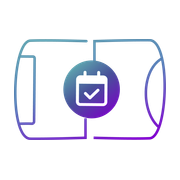
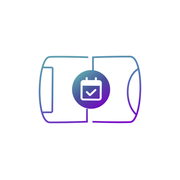
fix(manager): login mobile e preview da marca no link
Evita cortar o botão Google sob a tarja de teste e regenera logo/ícones/OG com margem segura.

Changed region(s): [[0.0556, 0.1944, 0.9444, 0.7778]]

diff --git a/vite.config.ts b/vite.config.ts
@@ -35,7 +35,13 @@ export default defineConfig({
     VitePWA({
       registerType: 'autoUpdate',
       injectRegister: 'auto',
-      includeAssets: ['logo-mpn.png', 'robots.txt', 'apple-touch-icon.png'],
+      includeAssets: [
+        'logo-mpn.png',
+        'og-image.png',
+        'robots.txt',
+        'apple-touch-icon.png',
+        'favicon-maskable-512x512.png',
+      ],
       workbox: {
         // SPA online: `serve -s` já devolve index.html.
         // NavigationRoute + precache vazio/desatualizado = ERR_FAILED no refresh (Chrome Android).
@@ -57,17 +63,19 @@ export default defineConfig({
               src: 'favicon-192x192.png',
               sizes: '192x192',
               type: 'image/png',
+              purpose: 'any',
             },
             {
               src: 'favicon-512x512.png',
               sizes: '512x512',
               type: 'image/png',
+              purpose: 'any',
             },
             {
-              src: 'favicon-512x512.png',
+              src: 'favicon-maskable-512x512.png',
               sizes: '512x512',
               type: 'image/png',
-              purpose: 'any maskable',
+              purpose: 'maskable',
             },
           ]
           : [
@@ -75,17 +83,19 @@ export default defineConfig({
               src: 'favicon-test-192x192.png',
               sizes: '192x192',
               type: 'image/png',
+              purpose: 'any',
             },
             {
               src: 'favicon-test-512x512.png',
               sizes: '512x512',
               type: 'image/png',
+              purpose: 'any',
             },
             {
-              src: 'favicon-test-512x512.png',
+              src: 'favicon-maskable-512x512.png',
               sizes: '512x512',
               type: 'image/png',
-              purpose: 'any maskable',
+              purpose: 'maskable',
             },
           ],
       },

diff --git a/index.html b/index.html
@@ -31,6 +31,27 @@
       content="black-translucent"
     />
     <meta name="robots" content="noindex, nofollow" />
+    <!-- Preview ao compartilhar o link (WhatsApp etc.): imagem com margem segura -->
+    <meta property="og:type" content="website" />
+    <meta property="og:site_name" content="Marca Pra Nós" />
+    <meta
+      property="og:title"
+      content="Painel Administrativo | Marca pra nós"
+    />
+    <meta
+      property="og:description"
+      content="Gerenciamento de reservas de horários em quadras esportivas"
+    />
+    <meta property="og:image" content="/og-image.png" />
+    <meta property="og:image:width" content="1200" />
+    <meta property="og:image:height" content="630" />
+    <meta property="og:locale" content="pt_BR" />
+    <meta name="twitter:card" content="summary_large_image" />
+    <meta
+      name="twitter:title"
+      content="Painel Administrativo | Marca pra nós"
+    />
+    <meta name="twitter:image" content="/og-image.png" />
     <meta
       http-equiv="Content-Security-Policy"
       content="default-src 'self'; base-uri 'self'; object-src 'none'; form-action 'self'; script-src 'self' 'unsafe-inline' https://www.googletagmanager.com https://www.google-analytics.com https://www.clarity.ms https://scripts.clarity.ms https://accounts.google.com; style-src 'self' 'unsafe-inline' https://accounts.google.com; img-src 'self' data: blob: https:; font-src 'self' data:; frame-src https://accounts.google.com; connect-src 'self' https://*.marcapranos.com.br https://*.up.railway.app https://www.google-analytics.com https://analytics.google.com https://*.clarity.ms https://www.clarity.ms https://viacep.com.br https://accounts.google.com http://localhost:* http://127.0.0.1:* ws: wss:; worker-src 'self' blob:; media-src 'self' blob:"

diff --git a/src/pages/SignUp/VerifyCode/index.tsx b/src/pages/SignUp/VerifyCode/index.tsx
@@ -159,10 +159,10 @@ function SignUpVerifyCode() {
 
   if (!email) {
     return (
-      <div className="relative flex min-h-full flex-col items-center justify-center bg-master px-4 py-4 text-text-light sm:py-8">
+      <div className="relative flex min-h-full flex-col items-center bg-master px-4 py-4 text-text-light sm:py-8">
         <div className="pointer-events-none absolute inset-0 bg-[radial-gradient(ellipse_at_top,_rgba(37,84,160,0.18),_transparent_55%)]" />
 
-        <div className="relative z-10 w-full max-w-md">
+        <div className="relative z-10 my-auto w-full max-w-md">
           <div className="mb-4 flex flex-col items-center text-center sm:mb-6">
             <div className="mb-3 flex w-32 items-center justify-center overflow-hidden rounded-xl bg-white p-1.5 sm:mb-4 sm:w-40 sm:rounded-2xl sm:p-2">
               <img
@@ -230,10 +230,10 @@ function SignUpVerifyCode() {
   }
 
   return (
-    <div className="relative flex min-h-full flex-col items-center justify-center bg-master px-4 py-4 text-text-light sm:py-8">
+    <div className="relative flex min-h-full flex-col items-center bg-master px-4 py-4 text-text-light sm:py-8">
       <div className="pointer-events-none absolute inset-0 bg-[radial-gradient(ellipse_at_top,_rgba(37,84,160,0.18),_transparent_55%)]" />
 
-      <div className="relative z-10 w-full max-w-md">
+      <div className="relative z-10 my-auto w-full max-w-md">
         <div className="mb-4 flex flex-col items-center text-center sm:mb-6">
           <div className="mb-3 flex w-32 items-center justify-center overflow-hidden rounded-xl bg-white p-1.5 sm:mb-4 sm:w-40 sm:rounded-2xl sm:p-2">
             <img

diff --git a/src/pages/SignUp/index.tsx b/src/pages/SignUp/index.tsx
@@ -257,10 +257,10 @@ function SignUp() {
   const generalError = errorField === null && formError ? formError : undefined;
 
   return (
-    <div className="relative flex min-h-full flex-col items-center justify-center bg-master px-4 py-8 text-text-light sm:py-10">
+    <div className="relative flex min-h-full flex-col items-center bg-master px-4 py-8 text-text-light sm:py-10">
       <div className="pointer-events-none absolute inset-0 bg-[radial-gradient(ellipse_at_top,_rgba(37,84,160,0.18),_transparent_55%)]" />
 
-      <div className="relative z-10 w-full max-w-md sm:max-w-xl">
+      <div className="relative z-10 my-auto w-full max-w-md sm:max-w-xl">
         <div className="mb-3 flex flex-col items-center text-center sm:mb-4">
           <div className="mb-2 flex w-24 items-center justify-center overflow-hidden rounded-xl bg-white p-1.5 sm:mb-3 sm:w-28 sm:rounded-2xl">
             <img

diff --git a/src/pages/ForgotPassword/Reset/index.tsx b/src/pages/ForgotPassword/Reset/index.tsx
@@ -171,10 +171,10 @@ function ForgotPasswordReset() {
   if (!email) return null;
 
   return (
-    <div className="relative flex min-h-full flex-col items-center justify-center bg-master px-4 py-4 text-text-light sm:py-8">
+    <div className="relative flex min-h-full flex-col items-center bg-master px-4 py-4 text-text-light sm:py-8">
       <div className="pointer-events-none absolute inset-0 bg-[radial-gradient(ellipse_at_top,_rgba(37,84,160,0.18),_transparent_55%)]" />
 
-      <div className="relative z-10 w-full max-w-md">
+      <div className="relative z-10 my-auto w-full max-w-md">
         <div className="mb-4 flex flex-col items-center text-center sm:mb-6">
           <div className="mb-3 flex w-32 items-center justify-center overflow-hidden rounded-xl bg-white p-1.5 sm:mb-4 sm:w-40 sm:rounded-2xl sm:p-2">
             <img

diff --git a/src/pages/Login/index.tsx b/src/pages/Login/index.tsx
@@ -188,10 +188,10 @@ function Login() {
   const canSubmit = Boolean(username.trim() && password) && !loading;
 
   return (
-    <div className="relative flex min-h-full flex-col items-center justify-center bg-master px-4 py-10 text-text-light">
+    <div className="relative flex min-h-full flex-col items-center bg-master px-4 py-10 text-text-light">
       <div className="pointer-events-none absolute inset-0 bg-[radial-gradient(ellipse_at_top,_rgba(37,84,160,0.18),_transparent_55%)]" />
 
-      <div className="relative z-10 w-full max-w-md">
+      <div className="relative z-10 my-auto w-full max-w-md">
         <div className="mb-5 flex flex-col items-center text-center">
           <div className="mb-3 flex w-28 items-center justify-center overflow-hidden rounded-xl bg-white p-1.5 sm:w-32 sm:rounded-2xl sm:p-2">
             <img

diff --git a/src/pages/ForgotPassword/index.tsx b/src/pages/ForgotPassword/index.tsx
@@ -53,10 +53,10 @@ function ForgotPassword() {
   };
 
   return (
-    <div className="relative flex min-h-full flex-col items-center justify-center bg-master px-4 py-4 text-text-light sm:py-8">
+    <div className="relative flex min-h-full flex-col items-center bg-master px-4 py-4 text-text-light sm:py-8">
       <div className="pointer-events-none absolute inset-0 bg-[radial-gradient(ellipse_at_top,_rgba(37,84,160,0.18),_transparent_55%)]" />
 
-      <div className="relative z-10 w-full max-w-md">
+      <div className="relative z-10 my-auto w-full max-w-md">
         <div className="mb-4 flex flex-col items-center text-center sm:mb-6">
           <div className="mb-3 flex w-32 items-center justify-center overflow-hidden rounded-xl bg-white p-1.5 sm:mb-4 sm:w-40 sm:rounded-2xl sm:p-2">
             <img

diff --git a/src/pages/SignUp/CompleteProfile/index.tsx b/src/pages/SignUp/CompleteProfile/index.tsx
@@ -134,10 +134,10 @@ function CompleteProfile() {
   };
 
   return (
-    <div className="relative flex min-h-full flex-col items-center justify-center bg-master px-4 py-8 text-text-light sm:py-10">
+    <div className="relative flex min-h-full flex-col items-center bg-master px-4 py-8 text-text-light sm:py-10">
       <div className="pointer-events-none absolute inset-0 bg-[radial-gradient(ellipse_at_top,_rgba(37,84,160,0.18),_transparent_55%)]" />
 
-      <div className="relative z-10 w-full max-w-md">
+      <div className="relative z-10 my-auto w-full max-w-md">
         <div className="mb-3 flex flex-col items-center text-center sm:mb-4">
           <div className="mb-2 flex w-24 items-center justify-center overflow-hidden rounded-xl bg-white p-1.5 sm:mb-3 sm:w-28 sm:rounded-2xl">
             <img
